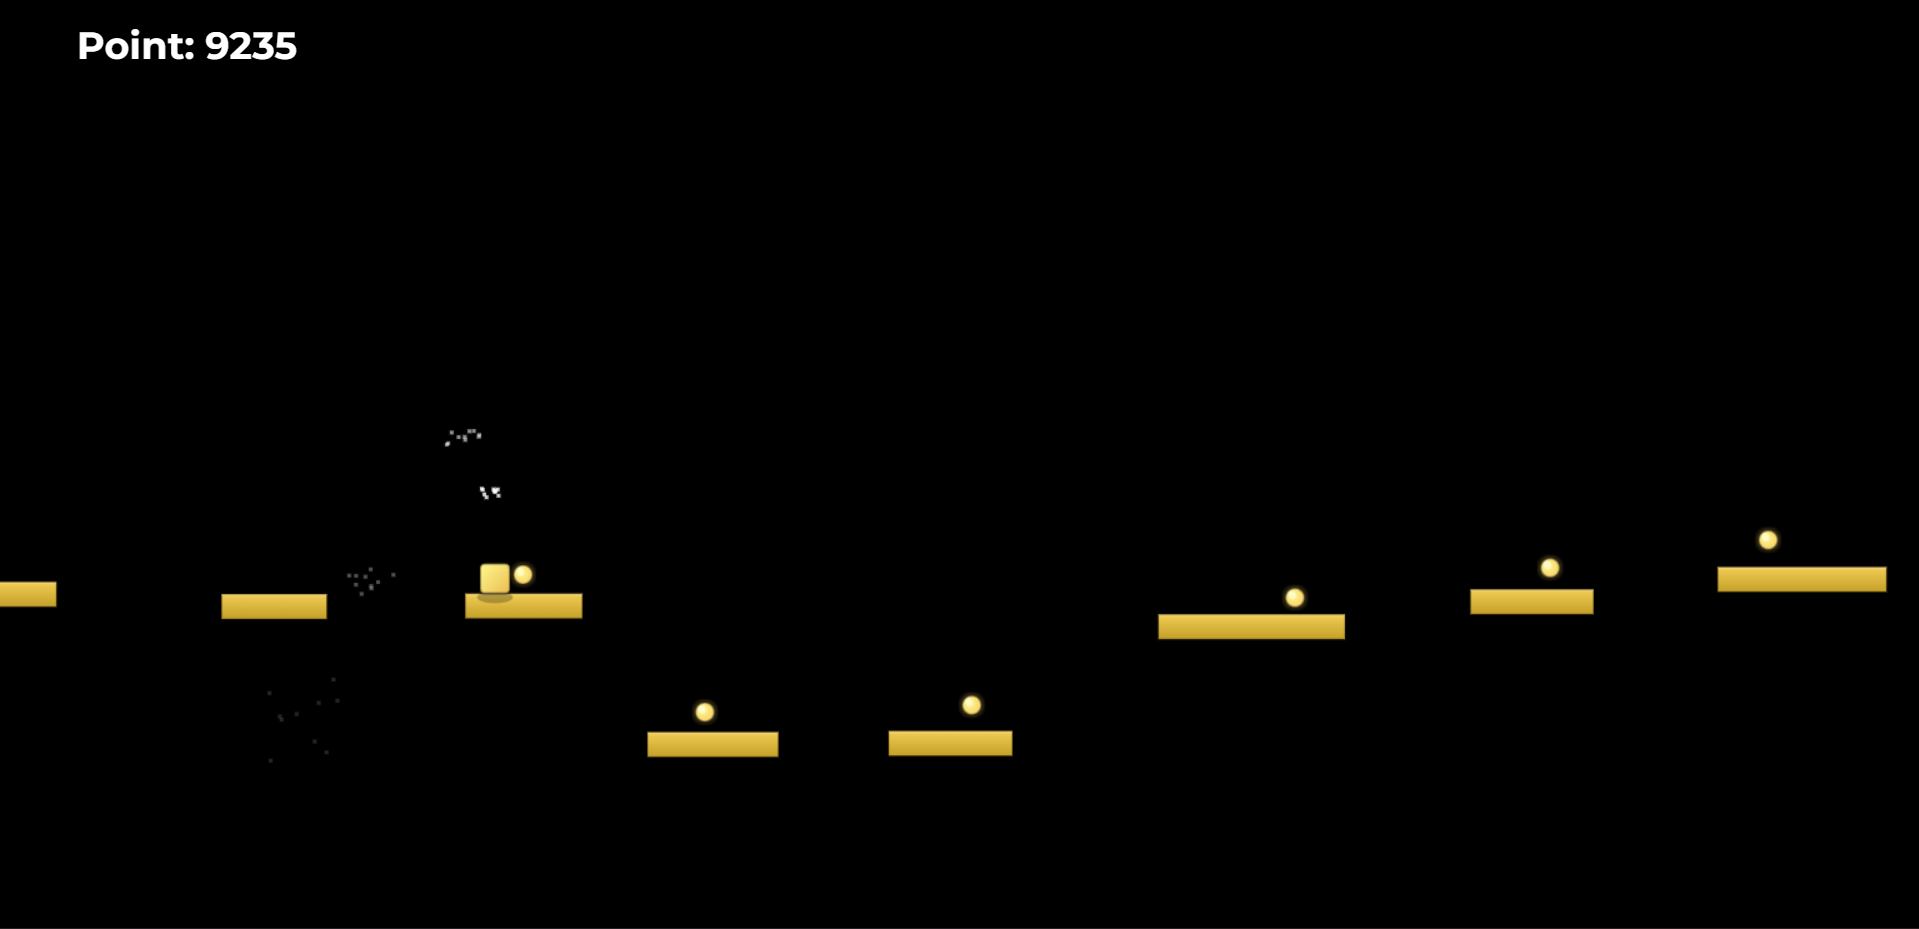
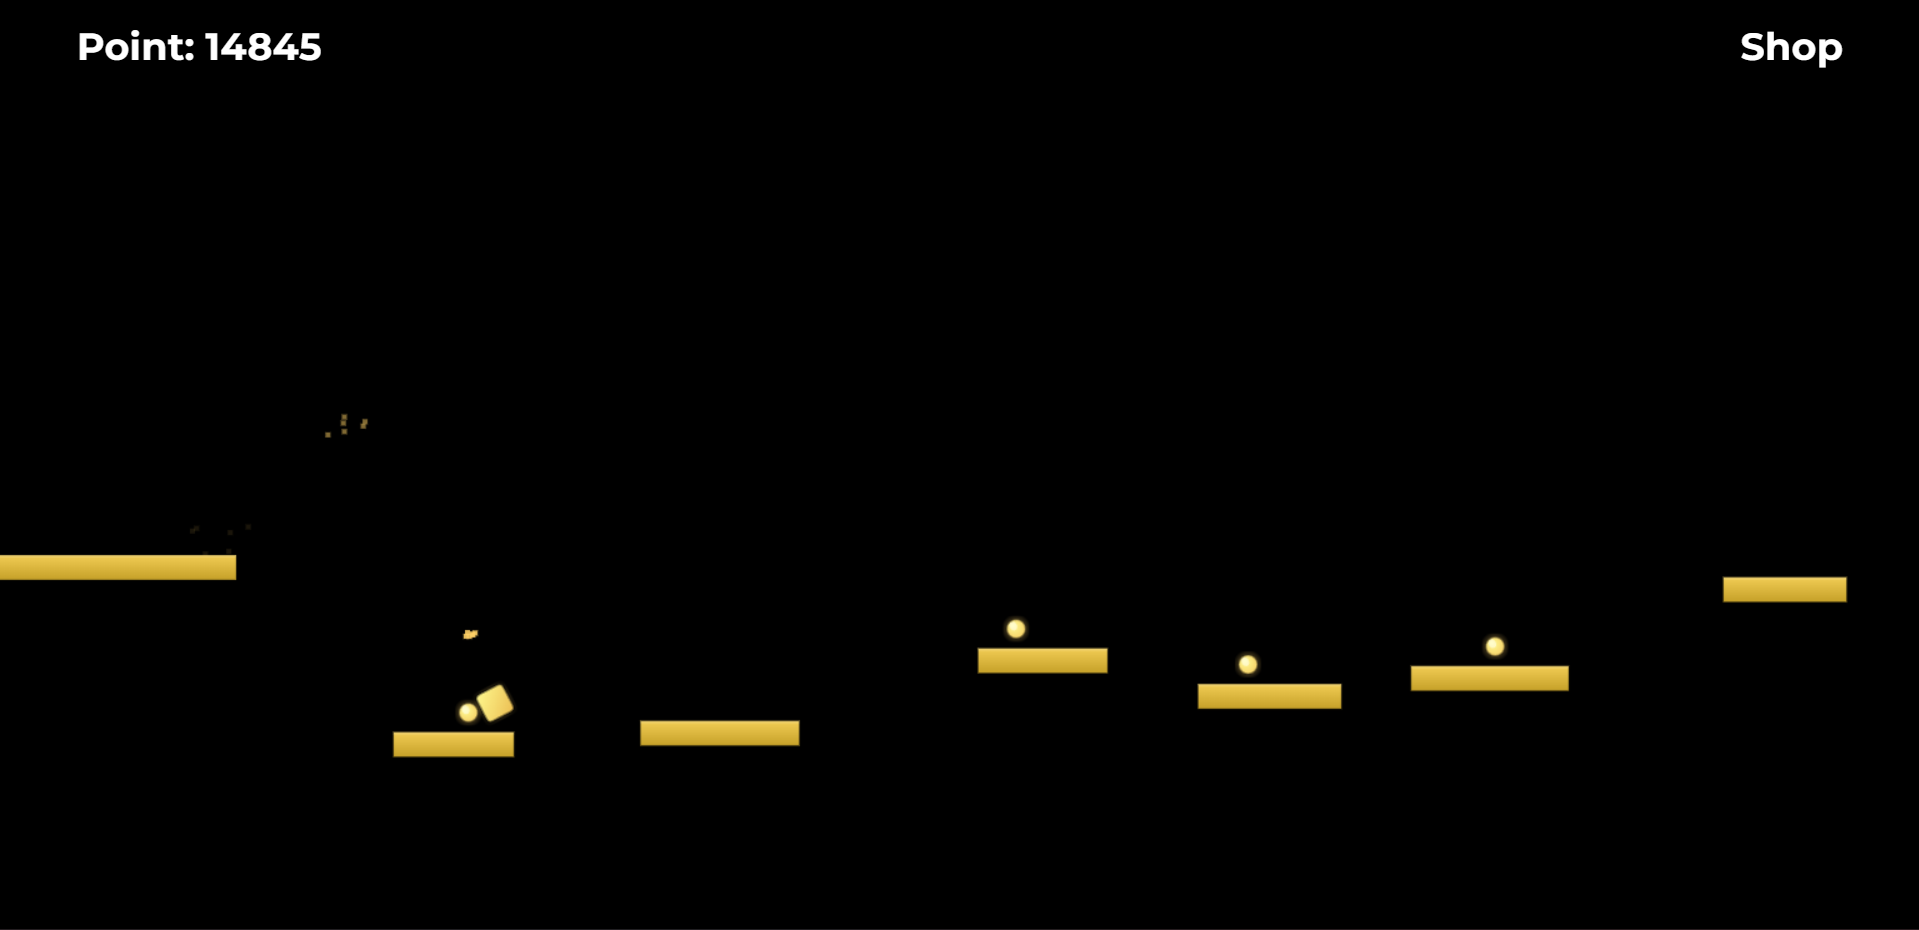
A few adjustments

diff --git a/script.js b/script.js
@@ -159,15 +159,11 @@ function drawGame() {
     ctx.fillStyle = bgGradient;
     ctx.fillRect(0, 0, canvas.width, canvas.height);
 
-    // Draw platforms with shadows and depth
+    // Draw platforms with depth
     ctx.fillStyle = platformColor; // platform color (skin)
     for (let platform of platforms) {
         const screenX = platform.x - camera.x;
         if (screenX + platform.width > 0 && screenX < canvas.width) {
-            // Draw shadow
-            ctx.fillStyle = 'rgba(0, 0, 0, 0.2)';
-            ctx.fillRect(screenX + 3, platform.y + 3, platform.width, platform.height);
-            
             // Draw platform with gradient
             const platGradient = ctx.createLinearGradient(screenX, platform.y, screenX, platform.y + platform.height);
             const platGradientColors = getGradientColors('platform');
@@ -207,15 +203,6 @@ function drawGame() {
     const centerY = playerScreenY + player.height / 2;
     ctx.translate(centerX, centerY);
     ctx.rotate(player.rotation);
-    
-    // Draw player shadow (always downward)
-    ctx.save();
-    ctx.rotate(-player.rotation);
-    ctx.fillStyle = 'rgba(0, 0, 0, 0.25)';
-    ctx.beginPath();
-    ctx.ellipse(0, player.height / 2 + 3, player.width * 0.6, player.height * 0.2, 0, 0, Math.PI * 2);
-    ctx.fill();
-    ctx.restore();
     
     // Get player color and gradient
     const playerRgb = parseColorToRGB(playerColor) || { r: 128, g: 128, b: 128 };
@@ -305,12 +292,6 @@ function drawGame() {
             ctx.fillStyle = glowGrad;
             ctx.fillRect(screenX - 3, foodY - 3, food.width + 6, food.height + 6);
             
-            // Draw food shadow
-            ctx.fillStyle = 'rgba(0, 0, 0, 0.2)';
-            ctx.beginPath();
-            ctx.ellipse(foodCenterX + 1, foodCenterY + food.height / 2 + 2, food.width * 0.5, food.height * 0.2, 0, 0, Math.PI * 2);
-            ctx.fill();
-            
             // Draw food body with gradient
             const foodGradient = ctx.createRadialGradient(
                 foodCenterX - food.width * 0.2, 
@@ -355,7 +336,7 @@ function drawGame() {
         }
     }
 
-    // Draw cheat message (if any) at top-right matching the `#score` HUD style
+    // Draw cheat message (if any) at bottom-right matching the `#score` HUD style
     if (cheatMsgTimer > 0 && cheatMsg) {
         ctx.save();
         // Match CSS: font-size 2vw, padding 1vh/2vw, border-radius 1vw
@@ -367,7 +348,7 @@ function drawGame() {
         const rectW = Math.round(textWidth + paddingX * 2);
         const rectH = Math.round(fontSize + paddingY * 2);
         const rectX = Math.round(canvas.width - (canvas.width * 0.02) - rectW); // 2vw from right
-        const rectY = Math.round(canvas.height * 0.02); // 2vh from top
+        const rectY = Math.round(canvas.height - (canvas.height * 0.02) - rectH); // 2vh from bottom
 
         // background: semi-transparent black like #score
         ctx.fillStyle = 'rgba(0,0,0,0.5)';
@@ -1172,6 +1153,12 @@ function closeShop() {
 // (renderShop is defined above for category-based skins)
 
 closeShopBtn.addEventListener('click', closeShop);
+
+// Shop button in top right
+const shopBtn = document.getElementById('shop-btn');
+if (shopBtn) {
+    shopBtn.addEventListener('click', openShop);
+}
 
 // Toggle shop with Q (keyCode 81)
 document.addEventListener('keydown', (e) => {

diff --git a/style.css b/style.css
@@ -285,6 +285,31 @@ body {
     border-radius: 1vw;
 }
 
+.shop-btn {
+    position: absolute;
+    top: 2vh;
+    right: 2vw;
+    font-size: 2vw;
+    font-family: 'Montserrat', sans-serif;
+    font-weight: 700;
+    color: white;
+    background-color: rgba(0, 0, 0, 0.5);
+    padding: 1vh 2vw;
+    border-radius: 1vw;
+    border: none;
+    cursor: pointer;
+    transition: all 0.2s ease;
+}
+
+.shop-btn:hover {
+    background-color: rgba(0, 0, 0, 0.7);
+    transform: translateY(-2px);
+}
+
+.shop-btn:active {
+    transform: translateY(0);
+}
+
 #instructions {
     position: absolute;
     top: 2vh;

diff --git a/index.html b/index.html
@@ -10,6 +10,7 @@
 <body>
     <canvas id="game-canvas"></canvas>
     <div id="score">Point: 0</div>
+    <button id="shop-btn" class="shop-btn">Shop</button>
 
     <!-- Shop Overlay -->
     <div id="shop" class="shop-overlay" aria-hidden="true">
